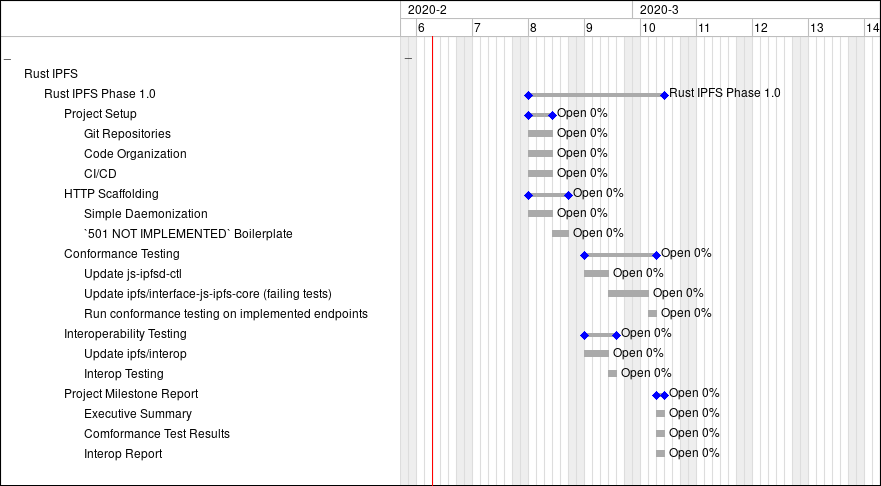
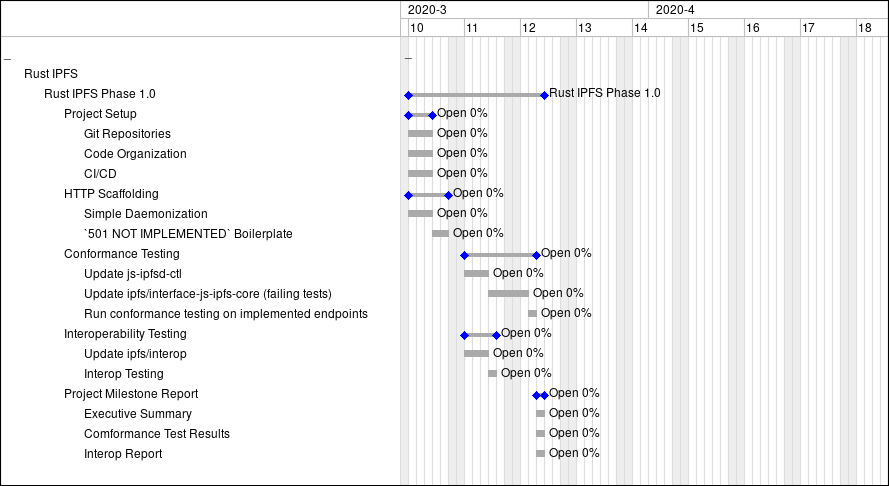
Splitting Phase 1.1 into 1.1 and 1.2

diff --git a/open-grants/ipfs-rust/README.md b/open-grants/ipfs-rust/README.md
@@ -47,11 +47,16 @@ MIT/Apache-2.0 license, allowing licensees to choose either at their option._
         * [Development Schedule](#development-schedule)
             * [Figure 2: Phase 1.0 Gantt Chart](#figure-2-phase-10-gantt-chart)
         * [Estimated Budget (Phase 1.0)](#estimated-budget-phase-10)
-    * [Phase 1.1: Blockstore](#phase-12-blockstore)
+    * [Phase 1.1: Blockstore, etc](#phase-11-blockstore-etc)
         * [Deliverables](#deliverables-1)
         * [Development Schedule](#development-schedule-1)
             * [Figure 3: Phase 1.1 Gantt Chart](#figure-3-phase-11-gantt-chart)
         * [Estimated Budget (Phase 1.1)](#estimated-budget-phase-11)
+    * [Phase 1.2 Bitswap, etc](#phase-12-bitswap-etc)
+        * [Deliverables](#deliverables-2)
+        * [Development Schedule](#development-schedule-2)
+            * [Figure 4: Phase 1.2 Gantt Chart](#figure-4-phase-12-gantt-chart)
+        * [Estimated Budget (Phase 1.2)](#estimated-budget-phase-12)
     * [Phase 2 and Onward](#phase-2-and-onward)
 
 ## Project Description
@@ -222,11 +227,17 @@ the key metric of progress on the project.
 Phase 1.1:
 
 - Blockstore implementation
-- HTTP endpoints for at least blockstore and pubsub
+- Node Instantiation and Identity
+- HTTP endpoints for /pubsub/, /swarm, /version, /id
 
 From there, we will begin the shortest path to enabling IPLD applications to be written in Rust.
 Choosing and building (or building upon) a blockstore implementation, followed by enabling several
 HTTP endpoints.
+
+Phase 1.2:
+
+- Bitswap testing and fixes
+- HTTP endpoints for /block, /dag, /refs, /bitswap
 
 Existing community work will be extremely beneficial to this stage, as many HTTP endpoints
 can likely be enabled by writing simple wrapper code around existing crates.
@@ -333,7 +344,7 @@ Additionally:
 * ipfs update will likely be handled by cargo install
 * Private network support via a swarm key is out of scope.
 
-### Phase 1.0 Interoperability Baseline
+### Phase 1.0: Interoperability Baseline
 
 Phase 1.0 covers project setup, and a baseline conformance test / interoperability report.
 
@@ -352,7 +363,7 @@ Phase 1.0 covers project setup, and a baseline conformance test / interoperabili
 #### Development Schedule
 
 Development will take place over an estimated 3-4 weeks of development. The following chart
-assumes a week 8 start date (Feb 17). We can be flexible in terms of start dates, however
+assumes a week 10 start date (Mar 2). We can be flexible in terms of start dates, however
 starting as soon as possible is preferable due to the above risk assessment.
 
 
@@ -368,34 +379,27 @@ _All figures are estimates._
 | --- | ---- | ---- | ---- | --- |
 | Software Development and Project Management | 164 hours | 120€ | 19,680€ | $21,832.01 |
 
-### Phase 1.2: IPLD Application Support
+### Phase 1.1: Blockstore and LibP2P
 
-Phase 1.2 will complete the work started in Phase 1.1, fully enabling IPLD application
+Phase 1.1 will complete the work started in Phase 1.0, fully enabling IPLD application
 support via Rust crate functions, the HTTP API, as well as CLI commands.
 
 #### Deliverables
 
 1. Blockstore Implementation
-2. Bitswap testing and bug fixes
 3. [Definition of Done](#definition-of-done) for:
     1. `/pubsub/*`
     2. `/swarm/*`
     3. `/version`
     4. `/id`
-    5. `/block/*`
-    6. `/dag/*`
-    7. `/refs/*`
-    8. `/bitswap/*`
 4. Project Milestone Report
     1. Updated Conformance Tests
     2. Updated Interop Tests
 
-Here, the community work will have its chance to shine - `libp2p` and `rust-ipld` in particular.
-
 #### Development Schedule
 
-Development will take place over an estimated 4 weeks of development. The following chart
-assumes a week 9 start date (Feb 24).
+Development will take place over an estimated 2-3 weeks of development. The following chart
+assumes a week 11 start date (Mar 9).
 
 ##### Figure 2. Phase 1.1 Gantt Chart
 
@@ -403,11 +407,42 @@ assumes a week 9 start date (Feb 24).
 
 _All figures are estimates._
 
+#### Estimated Budget (Phase 1.1)
+
+|  | Number of Hours | Hourly Rate | Total (Euros) | Total (USD) |
+| --- | ---- | ---- | ---- | --- |
+| Software Development and Project Management | 160 hours | 120€ | 19,200€ | $20808.58 |
+
+### Phase 1.2: Bitswap and Remaining HTTP Endpoints
+
+#### Deliverables
+
+1. Bitswap testing and fixes
+3. [Definition of Done](#definition-of-done) for:
+    1. `/block/*`
+    2. `/dag/*`
+    3. `/refs/*`
+    4. `/bitswap/*`
+4. Project Milestone Report
+    1. Updated Conformance Tests
+    2. Updated Interop Tests
+
+#### Development Schedule
+
+Development will take place over an estimated 2-3 weeks of development. The following chart
+assumes a week 13 start date (Mar 23).
+
+##### Figure 2. Phase 1.2 Gantt Chart
+
+![Phase 1.2 Gantt Chart](./media/phase-1-2-gantt.png)
+
+_All figures are estimates._
+
 #### Estimated Budget (Phase 1.2)
 
 |  | Number of Hours | Hourly Rate | Total (Euros) | Total (USD) |
 | --- | ---- | ---- | ---- | --- |
-| Software Development and Project Management | 224 hours | 120€ | 26,880€ | $29,819.33 |
+| Software Development and Project Management | 152 hours | 120€ | 18,240€ | $19,768.15 |
 
 ### Phase 2 and Onward
 
